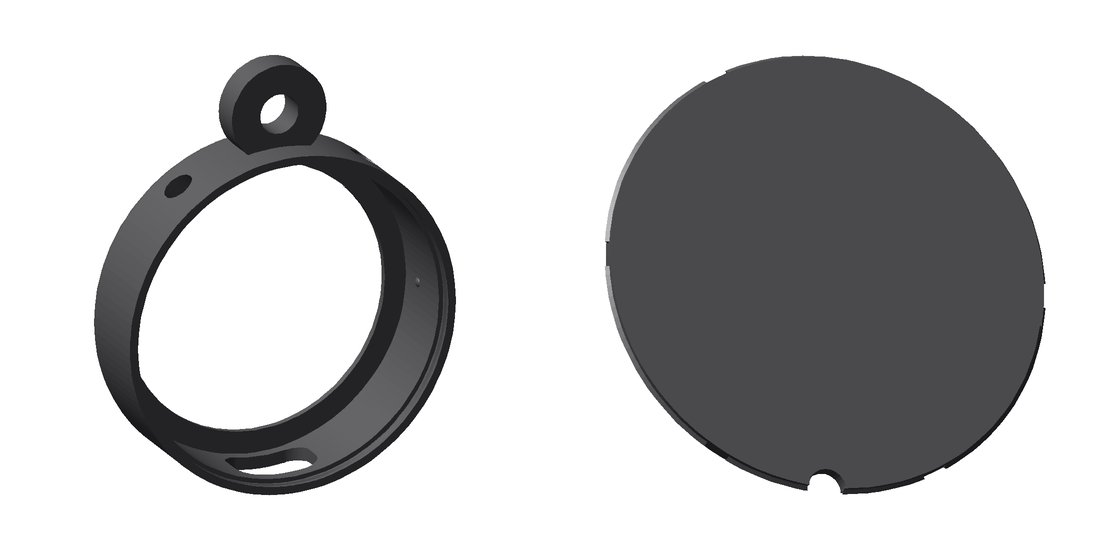
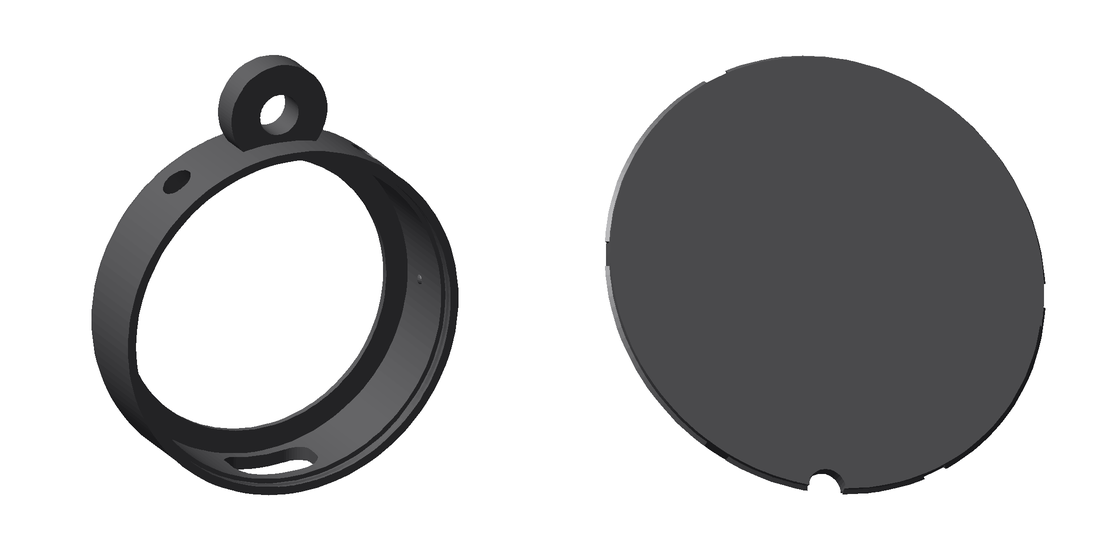
Eye: hanger sunk deeper into the case wall (3D previews, promo image, preview app)
Claude-Session: https://claude.ai/code/session_01LLvihLpCTbNuUxoRijJwKc

diff --git a/POPARTlove/eye/app/index.html b/POPARTlove/eye/app/index.html
@@ -39,11 +39,11 @@
   }
   .device { margin-top:calc(min(86vw, 420px) * 0.58); isolation:isolate; }
   /* the round keychain hanger on top of the case, with the key-ring hole in its middle */
-  .hanger { position:absolute; left:50%; top:-24.4%; width:28.9%; height:28.9%; transform:translateX(-50%);
+  .hanger { position:absolute; left:50%; top:-22.6%; width:28.9%; height:28.9%; transform:translateX(-50%);
     border-radius:50%; background:repeating-linear-gradient(0deg, #0a0a0a 0 2px, #141414 2px 3px);
     -webkit-mask-image:radial-gradient(ellipse 20.3% 20.3% at 50% 50%, transparent 97%, #000 100%); mask-image:radial-gradient(ellipse 20.3% 20.3% at 50% 50%, transparent 97%, #000 100%);
     filter:drop-shadow(8px 8px 0 var(--ink)); }
-  .ring { position:absolute; left:50%; top:-49.5%; width:40%; height:40%; transform:translateX(-50%); box-sizing:border-box; border-radius:50%;
+  .ring { position:absolute; left:50%; top:-47.7%; width:40%; height:40%; transform:translateX(-50%); box-sizing:border-box; border-radius:50%;
     border:calc(min(86vw, 420px) * 0.016) solid #2b2b30; box-shadow:3px 4px 0 var(--ink), 0 0 0 2px var(--ink), inset 0 0 0 2px var(--ink); z-index:-1; pointer-events:none; }
   .device::before { /* printed lip around the screen */
     content:""; position:absolute; inset:9.4%; border-radius:50%;

diff --git a/poptoons/eye/preview/app/index.html b/poptoons/eye/preview/app/index.html
@@ -39,11 +39,11 @@
   }
   .device { margin-top:calc(min(86vw, 420px) * 0.58); isolation:isolate; }
   /* the round keychain hanger on top of the case, with the key-ring hole in its middle */
-  .hanger { position:absolute; left:50%; top:-24.4%; width:28.9%; height:28.9%; transform:translateX(-50%);
+  .hanger { position:absolute; left:50%; top:-22.6%; width:28.9%; height:28.9%; transform:translateX(-50%);
     border-radius:50%; background:repeating-linear-gradient(0deg, #0a0a0a 0 2px, #141414 2px 3px);
     -webkit-mask-image:radial-gradient(ellipse 20.3% 20.3% at 50% 50%, transparent 97%, #000 100%); mask-image:radial-gradient(ellipse 20.3% 20.3% at 50% 50%, transparent 97%, #000 100%);
     filter:drop-shadow(8px 8px 0 var(--ink)); }
-  .ring { position:absolute; left:50%; top:-49.5%; width:40%; height:40%; transform:translateX(-50%); box-sizing:border-box; border-radius:50%;
+  .ring { position:absolute; left:50%; top:-47.7%; width:40%; height:40%; transform:translateX(-50%); box-sizing:border-box; border-radius:50%;
     border:calc(min(86vw, 420px) * 0.016) solid #2b2b30; box-shadow:3px 4px 0 var(--ink), 0 0 0 2px var(--ink), inset 0 0 0 2px var(--ink); z-index:-1; pointer-events:none; }
   .device::before { /* printed lip around the screen */
     content:""; position:absolute; inset:9.4%; border-radius:50%;
